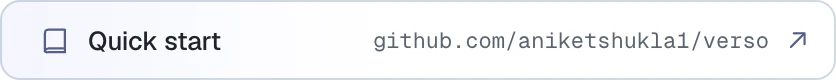
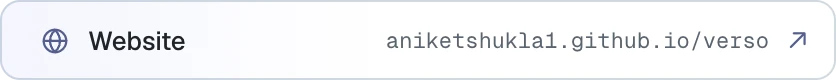
Verso has a website

Changed region(s): [[0.4354, 0.4, 0.8397, 0.65], [0.0311, 0.35, 0.2799, 0.675]]

diff --git a/art/src/projects.js b/art/src/projects.js
@@ -58,7 +58,7 @@ export const PROJECTS = {
     name: 'Verso', accent: '#93a2f2', logo: 'verso.png', shot: 'verso.webp',
     stack: ['TypeScript', 'React Native', 'Expo', 'PostgreSQL'],
     line: 'Scan a food label and see which ingredients are banned or restricted, where, and who decided, with sources.',
-    link: { label: 'Quick start', shown: 'github.com/aniketshukla1/verso', icon: 'book' },
+    link: { label: 'Website', shown: 'aniketshukla1.github.io/verso', icon: 'globe' },
   },
   'agent-cli': {
     name: 'agent-cli', accent: '#a3e635', logo: null, mark: '›_',

diff --git a/README.md b/README.md
@@ -44,7 +44,7 @@
 <a href="https://github.com/aniketshukla1/sdlc-kit"><picture><source media="(prefers-color-scheme: dark)" srcset="./art/cards/sdlc-kit-dark.webp" /><source media="(prefers-color-scheme: light)" srcset="./art/cards/sdlc-kit-light.webp" /><img src="./art/cards/sdlc-kit-light.webp" width="418" alt="sdlc-kit. Jira ticket in, reviewed GitLab MR out. A drop-in kit where scripts, not the agent, decide when it's done. Built with Shell and Python, for Cursor, Jira and GitLab." /></picture></a>
 <a href="https://github.com/aniketshukla1/verso"><picture><source media="(prefers-color-scheme: dark)" srcset="./art/cards/verso-dark.webp" /><source media="(prefers-color-scheme: light)" srcset="./art/cards/verso-light.webp" /><img src="./art/cards/verso-light.webp" width="418" alt="Verso. Scan a food label and see which ingredients are banned or restricted, where, and who decided, with sources. Built with TypeScript, React Native, Expo and PostgreSQL. Screenshots of its scan, verdict and compare screens." /></picture></a>
 <a href="https://aniketshukla1.github.io/sdlc-kit/"><picture><source media="(prefers-color-scheme: dark)" srcset="./art/links/sdlc-kit-dark.webp" /><source media="(prefers-color-scheme: light)" srcset="./art/links/sdlc-kit-light.webp" /><img src="./art/links/sdlc-kit-light.webp" width="418" alt="sdlc-kit website" /></picture></a>
-<a href="https://github.com/aniketshukla1/verso#quick-start"><picture><source media="(prefers-color-scheme: dark)" srcset="./art/links/verso-dark.webp" /><source media="(prefers-color-scheme: light)" srcset="./art/links/verso-light.webp" /><img src="./art/links/verso-light.webp" width="418" alt="Verso quick start" /></picture></a>
+<a href="https://aniketshukla1.github.io/verso/"><picture><source media="(prefers-color-scheme: dark)" srcset="./art/links/verso-dark.webp" /><source media="(prefers-color-scheme: light)" srcset="./art/links/verso-light.webp" /><img src="./art/links/verso-light.webp" width="418" alt="Verso website" /></picture></a>
 </p>
 
 ### Open source
